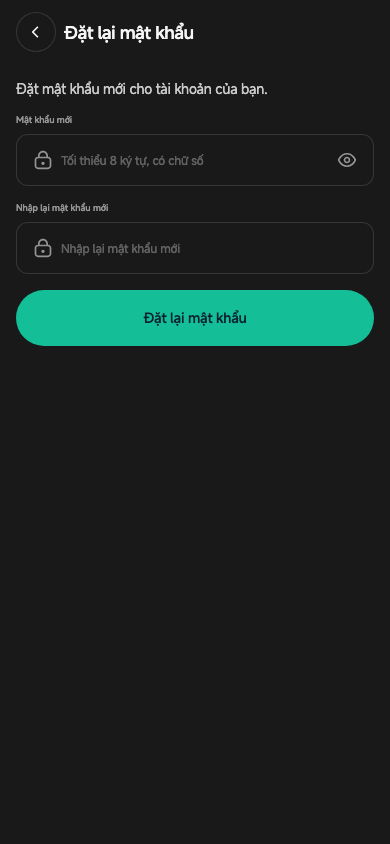
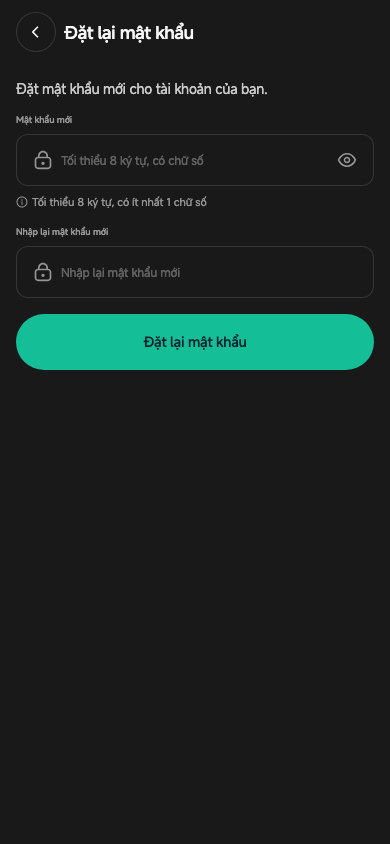
fix(auth): đăng ký — back header ở bước 2 về bước 1, đổi vai không hiện lỗi cũ, gợi ý handicap; đặt lại mật khẩu — resetTo + luật mật khẩu
- StackHeader nhận onBack?: () => void. register truyền onBack khi đang ở
  bước 2, nên nút back trên header về bước 1 như nút "Quay lại" trong form,
  không rời Đăng ký và không mất họ tên / email / SĐT / mật khẩu đã gõ.
- register: chọn vai thì setSubmitted(false). Trước đây Tiếp lỗi 1 lần rồi đổi
  vai thì bước 2 hiện "Bắt buộc" ngay cho trường của vai mới (T4).
- register: helpText handicap "Từ 0 đến 54 — mới chơi, chưa có handicap thì
  nhập 54" (T4).
- reset-password: resetTo login?reset=1 thay router.replace. Quên mật khẩu
  (đã gửi) không còn nằm dưới Đăng nhập, back không hiện lại "Kiểm tra hộp thư" (T25).
- reset-password: ô Mật khẩu mới có helpText={PASSWORD_RULE}, luật không mất
  khi bắt đầu gõ (T25).

Chụp lại f01--dang-ky-thong-tin và f03--dat-lai-mat-khau (sáng/tối).

Changed region(s): [[0.0308, 0.2156, 0.9846, 0.4621]]

diff --git a/apps/golf/app/(auth)/register.tsx b/apps/golf/app/(auth)/register.tsx
@@ -34,7 +34,7 @@ export default function Register() {
   };
   return (
     <Screen>
-      <StackHeader title="Tạo tài khoản" />
+      <StackHeader title="Tạo tài khoản" onBack={step === 1 ? () => setStep(0) : undefined} />
       <KeyboardAvoid>
         <ScrollView keyboardShouldPersistTaps="handled" contentContainerStyle={{ padding: t.layout('Margin-Small'), gap: t.space('Spacing/Gap/Large') }}>
           <Stepper current={step} steps={[{ title: 'Vai trò', caption: 'Bạn là ai' }, { title: 'Thông tin', caption: 'Hồ sơ cơ bản' }]} />
@@ -47,7 +47,7 @@ export default function Register() {
                   spacing="Small"
                   style={role === r.role ? { borderColor: t.color('Color/Border/Accent/Solid/Default') } : undefined}
                 >
-                  <RadioRow label={r.label} caption={r.caption} select={role === r.role} onPress={() => setRole(r.role)} />
+                  <RadioRow label={r.label} caption={r.caption} select={role === r.role} onPress={() => { setRole(r.role); setSubmitted(false); }} />
                 </Card>
               ))}
             </View>
@@ -66,7 +66,7 @@ export default function Register() {
                 onTrailingPress: () => setShowPassword((s) => !s),
               })}
               {role === 'player'
-                ? field('handicap', { label: 'Handicap', placeholder: 'VD: 18,5', helpText: 'Từ 0 đến 54', keyboardType: 'decimal-pad' })
+                ? field('handicap', { label: 'Handicap', placeholder: 'VD: 18,5', helpText: 'Từ 0 đến 54 — mới chơi, chưa có handicap thì nhập 54', keyboardType: 'decimal-pad' })
                 : (
                   <>
                     {field('academy', { label: 'Học viện / CLB', placeholder: 'VD: Học viện Golf Sông Bé' })}

diff --git a/apps/golf/app/(auth)/reset-password.tsx b/apps/golf/app/(auth)/reset-password.tsx
@@ -3,8 +3,8 @@ import { ScrollView, View } from 'react-native';
 import { router, useLocalSearchParams } from 'expo-router';
 import { Button, EmptyState, Screen, Text, TextField, useTheme } from '@gr/ds';
 import { resetTokenStatus } from '../../lib/simulate';
-import { validateNewPassword } from '../../lib/validation';
-import { StackHeader } from '../../components/StackHeader';
+import { PASSWORD_RULE, validateNewPassword } from '../../lib/validation';
+import { resetTo, StackHeader } from '../../components/StackHeader';
 
 /** Đặt lại mật khẩu từ link trong email (mô phỏng): `?token=` hợp lệ → nhập mật khẩu mới 2 lần → Đăng nhập (kèm thông báo).
  *  Link hết hạn / thiếu / sai → xin link mới. Deep link: gramgolf://reset-password?token=… */
@@ -21,7 +21,7 @@ export default function ResetPassword() {
     setSubmitted(true);
     if (Object.keys(validateNewPassword(password, confirm)).length) return;
     // ponytail: bản mock không lưu mật khẩu (đăng nhập nhận mọi mật khẩu ≥ 6 ký tự) — backend thật đổi mật khẩu + vô hiệu token.
-    router.replace({ pathname: '/(auth)/login', params: { reset: '1' } });
+    resetTo({ pathname: '/(auth)/login', params: { reset: '1' } }); // quên mật khẩu (đã gửi) không còn dưới Đăng nhập → back không hiện lại "Kiểm tra hộp thư"
   };
   if (status !== 'ok') {
     const expired = status === 'expired';
@@ -48,6 +48,7 @@ export default function ResetPassword() {
         <TextField
           label="Mật khẩu mới"
           placeholder="Tối thiểu 8 ký tự, có chữ số"
+          helpText={PASSWORD_RULE}
           value={password}
           onChangeText={setPassword}
           error={errors.password}

diff --git a/apps/golf/components/StackHeader.tsx b/apps/golf/components/StackHeader.tsx
@@ -1,12 +1,13 @@
 import { router, type Href } from 'expo-router';
 import { TopNavigation, type TopNavAction } from '@gr/ds';
 
-/** Header màn stack: nút quay lại + tiêu đề trái. Mở thẳng bằng URL (không có lịch sử) thì "quay lại" về `/`. */
-export function StackHeader({ title, subtitle, actions }: { title: string; subtitle?: string; actions?: TopNavAction[] }) {
+/** Header màn stack: nút quay lại + tiêu đề trái. Mở thẳng bằng URL (không có lịch sử) thì "quay lại" về `/`.
+ *  `onBack`: màn nhiều bước tự lùi một bước thay vì rời màn (vd Đăng ký bước 2 → bước 1). */
+export function StackHeader({ title, subtitle, actions, onBack }: { title: string; subtitle?: string; actions?: TopNavAction[]; onBack?: () => void }) {
   const back: TopNavAction = {
     icon: 'chevron-left-line-medium',
     accessibilityLabel: 'Quay lại',
-    onPress: () => (router.canGoBack() ? router.back() : router.replace('/')),
+    onPress: onBack ?? (() => (router.canGoBack() ? router.back() : router.replace('/'))),
   };
   return <TopNavigation heading={title} subtitle={subtitle} align="Left" leadingAction={back} trailingActions={actions} />;
 }
